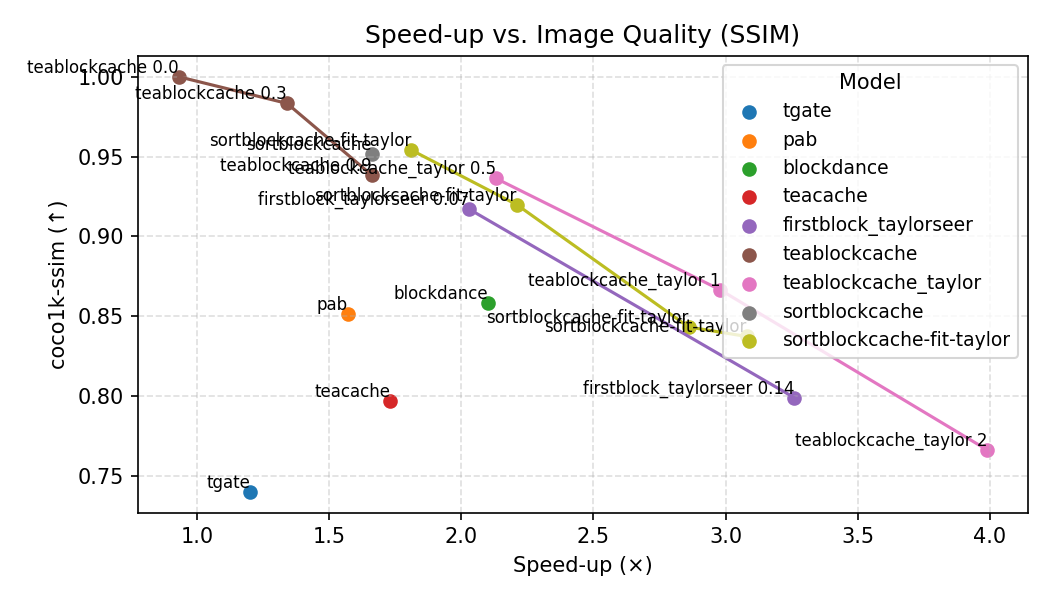
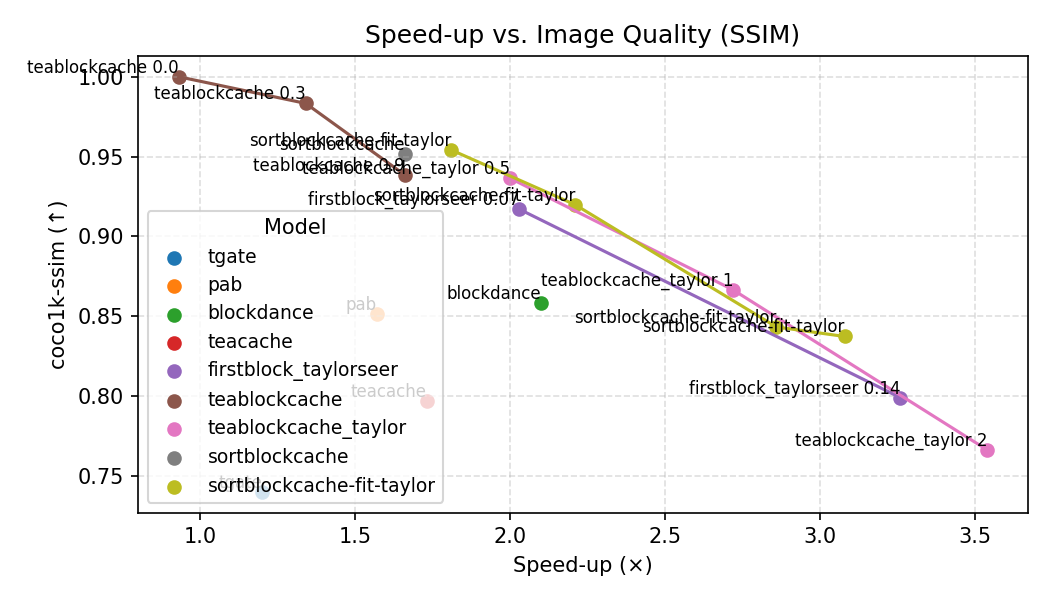
update

diff --git a/ppdiffusers/examples/TeaBlockCache/draw_accel_vs_ssim.py b/ppdiffusers/examples/TeaBlockCache/draw_accel_vs_ssim.py
@@ -23,14 +23,14 @@ records = [
     ("teablockcache 0.0", 0.93, 1.0),
     ("teablockcache 0.3", 1.34, 0.9833),
     ("teablockcache 0.9", 1.66, 0.9385),
-    ("teablockcache_taylor 2", 3.99, 0.7663),
-    ("teablockcache_taylor 1", 2.98, 0.8665),
-    ("teablockcache_taylor 0.5", 2.13, 0.9364),
+    ("teablockcache_taylor 2", 3.54, 0.7663),
+    ("teablockcache_taylor 1", 2.72, 0.8665),
+    ("teablockcache_taylor 0.5", 2.00, 0.9364),
     ("sortblockcache", 1.66, 0.95176),
     ("sortblockcache-fit-taylor", 1.81, 0.95413),
     ("sortblockcache-fit-taylor", 2.21, 0.91984),
     ("sortblockcache-fit-taylor", 2.86, 0.84326),
-    ("sortblockcache-fit-taylor", 3.08, 0.83731),
+    ("sortblockcache-fit-taylor", 3.00, 0.83731),
 ]
 # --------------------------
 
